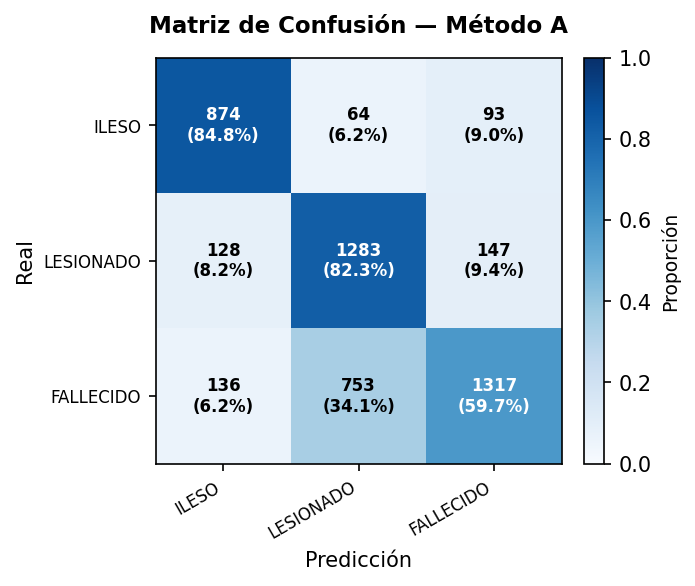
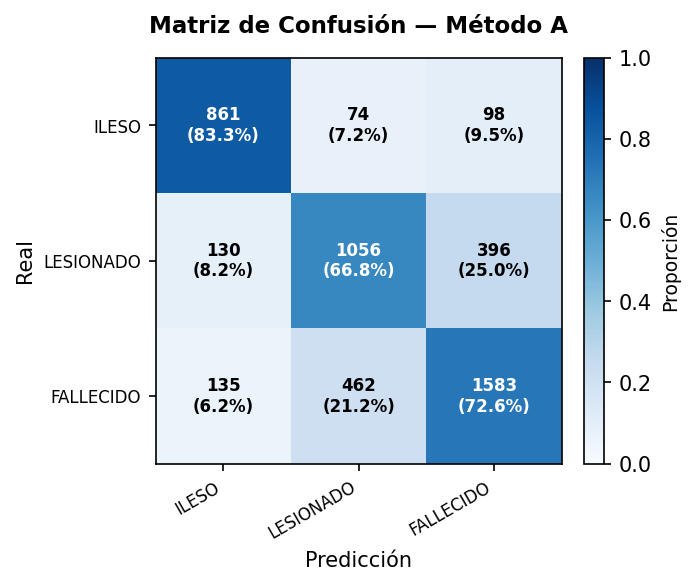
ya que 2

diff --git a/prueba_entrenamiento.py b/prueba_entrenamiento.py
@@ -52,6 +52,7 @@ PNG_RED = f"{CARPETA_SALIDA}/arquitectura_red.png"
 CLASS_WEIGHTS = None  
 # ej.: [1.0, 1.4, 1.4]  (orden: ILESO, LESIONADO, FALLECIDO)
 # CLASS_WEIGHTS = [1.0, 1.1, 2]
+CLASS_WEIGHTS = [1.4, 1.0, 0.9]
 
 
 # ─────────────────────────────────────────────────────────────────────────────
@@ -265,7 +266,9 @@ def main():
         class_counts[class_counts == 0] = 1
         adaptive_alpha = total_samples / (k_classes * class_counts)
         print(f"Pesos adaptativos de clase calculados: {adaptive_alpha}")
+        print(f"Pesos ajustados de clase calculados: {CLASS_WEIGHTS}")
         class_weights = adaptive_alpha
+        class_weights = CLASS_WEIGHTS
         cost_function = "focal_loss"
     else:
         class_weights = CLASS_WEIGHTS
@@ -332,8 +335,8 @@ def main():
         print(f"Clase de Costo Utilizada: {model.cost_name}")
         print(f"Parámetros de Entrenamiento:")
         print(f"  - Optimizador: ADAM")
-        print(f"  - Épocas: 200")
-        print(f"  - Tasa de Aprendizaje (alpha): 0.002")
+        print(f"  - Épocas: 100")
+        print(f"  - Tasa de Aprendizaje (alpha): 0.001")
         print(f"  - Tamaño de Batch (batch_size): 64")
         print(f"  - Weight Decay (L2): 1e-4")
         print(f"  - Clip Norm: 2.0")